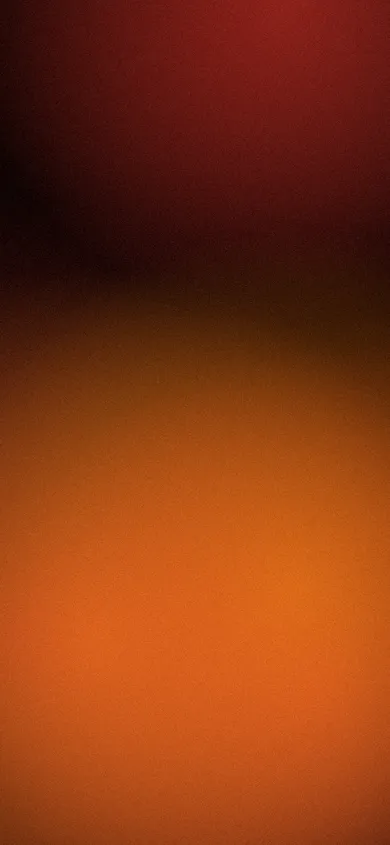
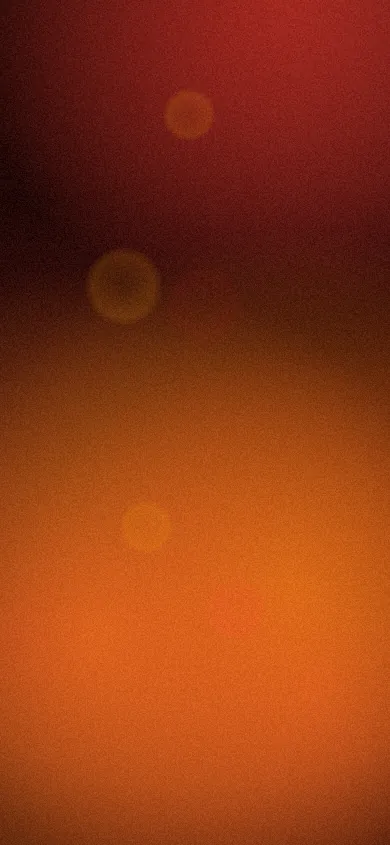
feat(wallpapers): richer depth on built-ins, new Liquid set (ribbons, aurora, chrome), redraw once after update
Claude-Session: https://claude.ai/code/session_01DQj1JznU42PgvsTrUqEkaD

Changed region(s): [[0.0923, 0.0, 1.0, 0.4], [0.0923, 0.0, 0.1231, 0.0615], [0.1231, 0.2462, 0.1538, 0.2769]]

diff --git a/website/index.html b/website/index.html
@@ -71,7 +71,7 @@
       <article class="glass card reveal"><i>◷</i><h3 data-i18n="f4t">Widget กระจก</h3><p data-i18n="f4">Widget ของ Xe 10 แบบ นาฬิกา ปฏิทิน ค้นหา รูปภาพ โน้ต แบตเตอรี่ และใช้ Widget ของแอปอื่นได้</p></article>
       <article class="glass card reveal"><i>✦</i><h3 data-i18n="f5t">วอลเปเปอร์ของคุณ</h3><p data-i18n="f5">นำเข้ารูป ลากและซูมให้พอดี ปรับความมืดและความเบลอ แล้วตั้งเป็นหน้าหลักหรือหน้าล็อก</p></article>
       <article class="glass card reveal"><i>↻</i><h3 data-i18n="f6t">แจ้งเตือนอัปเดต</h3><p data-i18n="f6">มีเวอร์ชันใหม่ แอปเด้งเตือนภายในไม่กี่นาที แตะครั้งเดียวก็ดาวน์โหลดได้ ติดตั้งทับได้ การตั้งค่าไม่หาย</p></article>
-      <article class="glass card reveal"><i>❖</i><h3 data-i18n="f7t">ธีมแตะเดียว</h3><p data-i18n="f7">10 ธีมในแอป เปลี่ยนวอลเปเปอร์ สไตล์ไอคอน และทรงไอคอนพร้อมกันในครั้งเดียว</p></article>
+      <article class="glass card reveal"><i>❖</i><h3 data-i18n="f7t">ธีมแตะเดียว</h3><p data-i18n="f7">13 ธีมในแอป เปลี่ยนวอลเปเปอร์ สไตล์ไอคอน และทรงไอคอนพร้อมกันในครั้งเดียว</p></article>
       <article class="glass card reveal"><i>◉</i><h3 data-i18n="f8t">ลูกเล่นกระจก</h3><p data-i18n="f8">แสงบนกระจกขยับตามการเอียงมือถือ กดค้างที่ว่างบนหน้าโฮมแล้วลาก จะมีเลนส์กระจกตามนิ้ว</p></article>
       <article class="glass card reveal"><i>✉</i><h3 data-i18n="f9t">แจ้งบัคในแอป</h3><p data-i18n="f9">เขียนบอกปัญหาแล้วส่งอีเมลได้จากในแอป ถ้าแอปปิดเอง ครั้งหน้าจะถามว่าจะส่งรายงานไหม</p></article>
     </div>
@@ -79,7 +79,7 @@
 
   <section class="themes">
     <h2 class="reveal" data-i18n="themesTitle">ธีม</h2>
-    <p class="sub muted reveal" data-i18n="themesSub">10 ธีมเดียวกับในแอป (ตั้งค่า › ธีม) แตะเพื่อลองบนมือถือด้านบน</p>
+    <p class="sub muted reveal" data-i18n="themesSub">13 ธีมเดียวกับในแอป (ตั้งค่า › ธีม) แตะเพื่อลองบนมือถือด้านบน</p>
     <div class="gallery" id="gallery"></div>
   </section>
 

diff --git a/app/src/test/java/com/xenoorigin/xelauncher/theme/ThemePresetsTest.kt b/app/src/test/java/com/xenoorigin/xelauncher/theme/ThemePresetsTest.kt
@@ -11,10 +11,15 @@ import com.xenoorigin.xelauncher.wallpaper.byId
 import org.junit.Test
 
 class ThemePresetsTest {
-    @Test fun tenThemes_matchTheWebsite_startingWithXeBlack() {
+    @Test fun thirteenThemes_matchTheWebsite_startingWithXeBlack() {
         assertThat(XeThemes.map { it.id }).containsExactly(
             "xe_black", "xe_blue", "aurora", "sunset", "mono_wave", "ocean", "violet_glass", "ember", "rose", "mint",
+            "liquid_azure", "frost_aurora", "chrome_night",
         ).inOrder()
+        // The website lists the same themes, in the same order.
+        val site = java.io.File("../website/play.js").readText()
+        val ids = Regex("""\{ id: "([a-z_]+)", name""").findAll(site.substringAfter("const THEMES").substringBefore("];")).map { it.groupValues[1] }.toList()
+        assertThat(ids).containsExactlyElementsIn(XeThemes.map { it.id }).inOrder()
     }
 
     @Test fun everyThemeUsesARealWallpaper() {
@@ -40,5 +45,19 @@ class ThemePresetsTest {
     @Test fun secretTheme_onlyListedOnceUnlocked() {
         assertThat(themesFor(XeSettings())).doesNotContain(Supernova)
         assertThat(themesFor(XeSettings(novaUnlocked = true)).last()).isEqualTo(Supernova)
+    }
+}
+
+@org.junit.runner.RunWith(androidx.test.ext.junit.runners.AndroidJUnit4::class)
+@org.robolectric.annotation.GraphicsMode(org.robolectric.annotation.GraphicsMode.Mode.NATIVE)
+@org.robolectric.annotation.Config(sdk = [34])
+class ThemeWallpaperExport {
+    /** Writes each theme's wallpaper for the website (copied to website/assets/wall as WebP by the release step). */
+    @org.junit.Test fun exportThemeWallpapersForTheWebsite() {
+        val dir = java.io.File("build/site_walls").apply { mkdirs() }
+        for (t in XeThemes) {
+            val b = com.xenoorigin.xelauncher.wallpaper.WallpaperRenderer.render(XeCollection.byId(t.wallpaperId)!!, 390, 845)
+            java.io.File(dir, "${t.id}.png").outputStream().use { b.compress(android.graphics.Bitmap.CompressFormat.PNG, 100, it) }
+        }
     }
 }

diff --git a/website/app.js b/website/app.js
@@ -10,7 +10,7 @@
       f4t: "Glass widgets", f4: "10 Xe widgets: clocks, calendar, search, photo, note, battery and more. Widgets from other apps work too.",
       f5t: "Your wallpaper", f5: "Import a picture, drag and pinch to fit, set dim and blur, then use it on the Home screen or lock screen.",
       f6t: "Update alerts", f6: "A new version pops up within minutes. One tap downloads it, and it installs over the old one with your settings kept.",
-      f7t: "One-tap themes", f7: "10 themes in the app change the wallpaper, icon style and icon shape all at once.",
+      f7t: "One-tap themes", f7: "13 themes in the app change the wallpaper, icon style and icon shape all at once.",
       f8t: "Glass toys", f8: "Light on the glass moves as you tilt the phone. Hold an empty spot on Home and drag for a glass lens.",
       f9t: "Report bugs in the app", f9: "Describe a problem and email it from the app. If Xe closes unexpectedly, it offers to send a report next time.",
       newsTitle: "What's new",
@@ -25,7 +25,7 @@
       playTitle: "Try it", playSub: "Swipe up for categories, swipe sideways to switch, tap to open an app, hold for the menu.",
       cTheme: "Theme", cStyle: "Icon style", cShape: "Icon shape", lens: "Glass follows your finger",
       tilt: "Tilt your phone and the light on the glass rims moves with it.",
-      themesTitle: "Themes", themesSub: "The same 10 themes as in the app (Settings › Themes). Tap one to try it on the phone above.",
+      themesTitle: "Themes", themesSub: "The same 13 themes as in the app (Settings › Themes). Tap one to try it on the phone above.",
       secret: "✦ There's a secret somewhere on this page",
       installTitle: "Install on Samsung",
       s1: "Tap Download APK above", s2: "Open the file and allow your browser to “Install unknown apps”",

diff --git a/website/play.js b/website/play.js
@@ -95,6 +95,9 @@
     { id: "ember", name: "Ember", style: "dark", shape: "circle" },
     { id: "rose", name: "Rose", style: "orig", shape: "circle", light: true },
     { id: "mint", name: "Mint", style: "orig", shape: "rounded", light: true },
+    { id: "liquid_azure", name: "Liquid Azure", style: "clear", shape: "squircle" },
+    { id: "frost_aurora", name: "Frost Aurora", style: "color", shape: "circle" },
+    { id: "chrome_night", name: "Chrome Night", style: "mono", shape: "squircle" },
   ];
   const NOVA = { id: "nova", name: "Supernova", style: "color", shape: "tear", secret: true };
 
